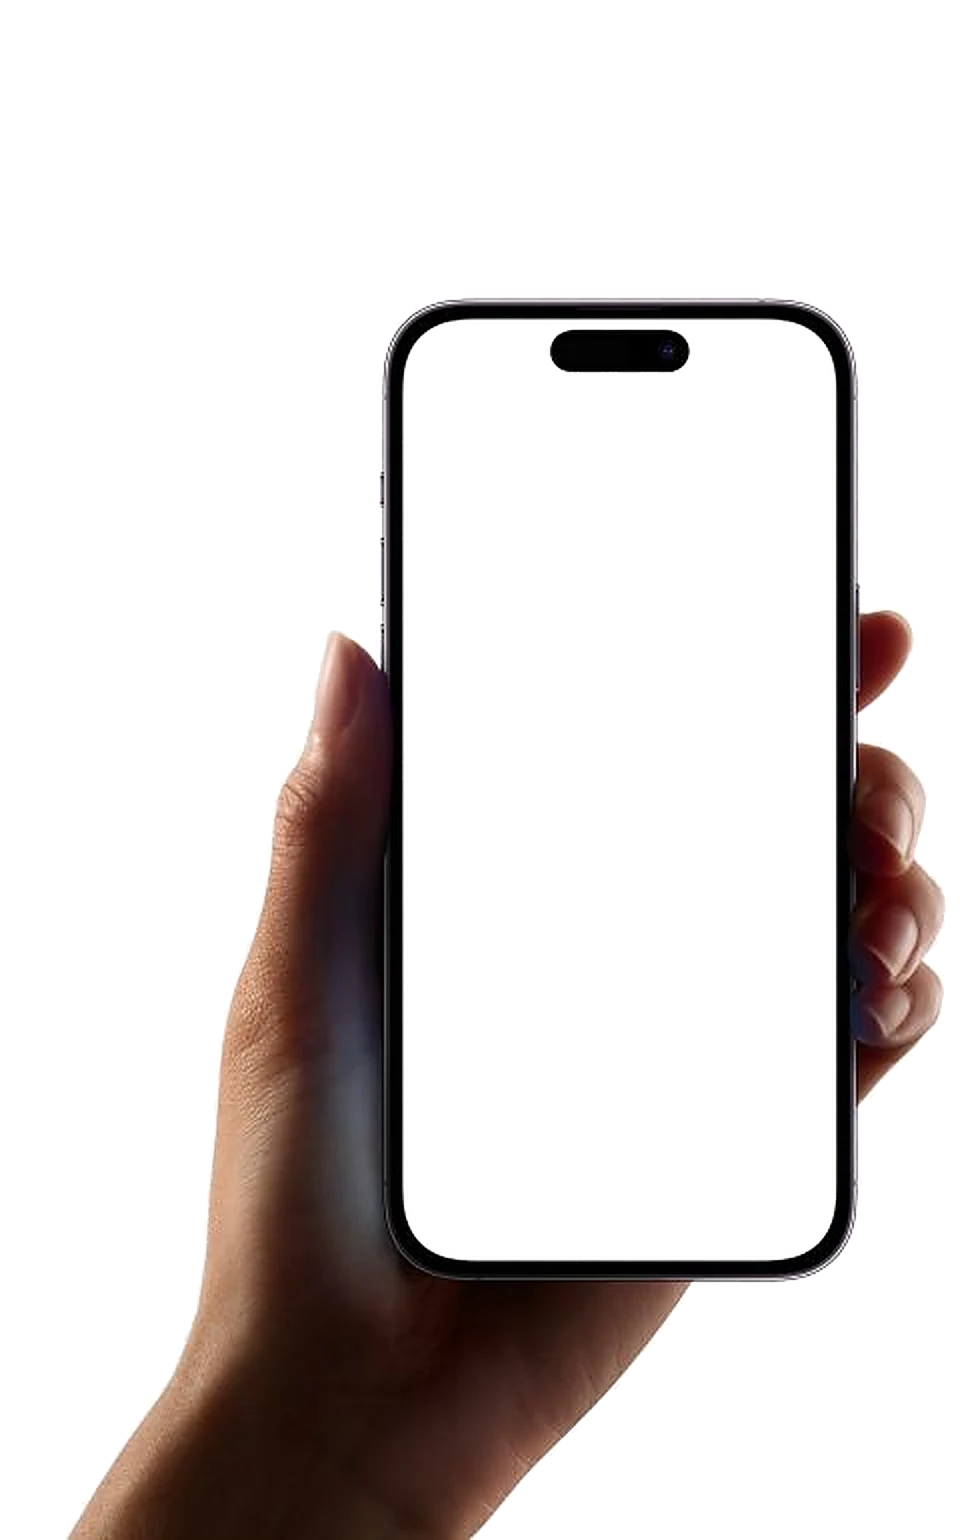
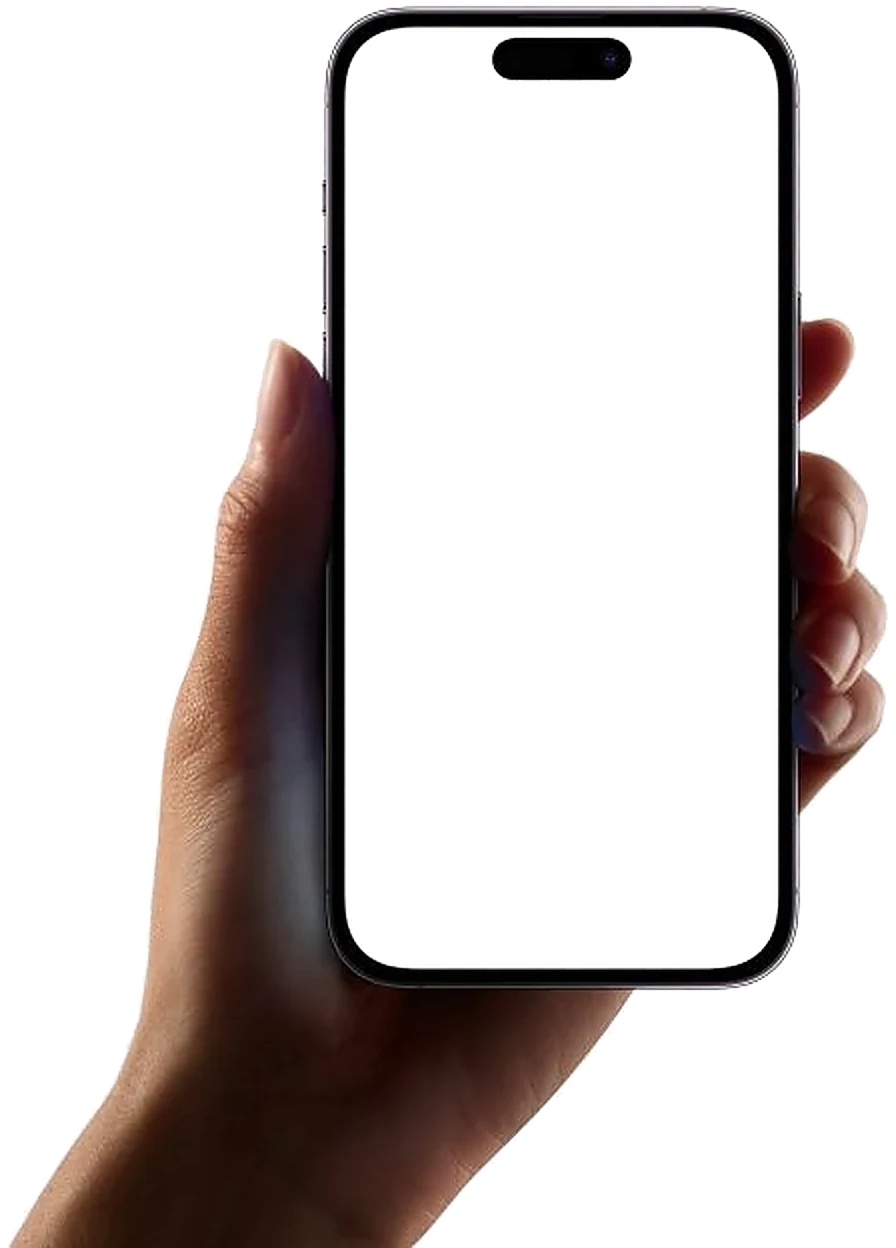
hero empty space fix

Changed region(s): [[0.0, 0.0, 1.0, 1.0]]

diff --git a/app/globals.css b/app/globals.css
@@ -369,7 +369,7 @@ textarea.field { resize: none; min-height: 104px; line-height: 1.5; }
 .statrownum { flex: 0 0 44px; text-align: right; font-size: 14px; font-weight: 700; }
 
 /* --- homepage: fluid hero --- */
-.hero { display: grid; grid-template-columns: minmax(0,1.15fr) 260px; gap: 30px; align-items: center; position: relative; overflow: visible; }
+.hero { display: grid; grid-template-columns: minmax(0,1.15fr) 337px; gap: 30px; align-items: center; position: relative; overflow: visible; }
 .heroart { display: contents; }
 .herotitle { font-size: clamp(30px, 7.4vw, 52px); line-height: 1.05; margin: 18px 0 0; letter-spacing: -0.035em; font-weight: 800; }
 .herosub { font-size: clamp(15.5px, 3.6vw, 18px); line-height: 1.6; color: rgba(27,13,68,.7); margin: 16px 0 24px; max-width: 500px; }
@@ -1726,48 +1726,53 @@ button, a, label, select, input[type=color] { touch-action: manipulation; }
    overlapping the case. Painting the screen last would put the page in front
    of the thumb.
 
-   The percentages are measured from the keyed file, not guessed, so the screen
-   lands exactly in the hole.
+   The file is cropped to its own content. The original carried about 18% of
+   empty height above the phone, which the grid then had to make room for: the
+   hero column grew, the text beside it centred against all that height, and
+   the section opened up a band of dead space above the headline. Cropping the
+   air out shortened the column by roughly 110px and closed the gap.
+
+   The percentages are measured from the cropped file, not guessed, so the
+   screen lands exactly in the hole.
 
    --handn is the only knob, and it is UNITLESS on purpose: the scale below
    divides by the screen's design width, and CSS cannot divide one length by
    another. Width gets its px by multiplying.
 
-   360 is a compromise, not an arbitrary number. The source photo is 480px of
-   real detail. Shown at 360 CSS px a 2x display asks for 720, so about two
-   thirds of what it wants — soft, but skin and shadow carry that far better
-   than text would, which is exactly why the screen is markup and not part of
-   the image. Bigger looks more impressive and softer: at 511px, the width that
-   would match the old drawn phone's screen, it drops to under half.
+   337 keeps the screen at the same 162px it was before the crop, so nothing
+   inside changed size. The source holds 480px of real detail, so at 337 CSS px
+   a 2x display gets about 71% of what it asks for — soft, but skin and shadow
+   carry that far better than text would, which is exactly why the screen is
+   markup and not part of the image.
 --------------------------------------------------------------------------- */
 .handmock {
-  --handn: 360;
+  --handn: 337;
   position: relative;
   width: calc(var(--handn) * 1px);
-  aspect-ratio: 480 / 770;   /* the photo's own ratio, so it never letterboxes */
+  aspect-ratio: 896 / 1248;   /* the cropped file's own ratio */
 }
 .handimg {
   position: absolute; inset: 0;
   width: 100%; height: 100%;
   display: block; pointer-events: none;
   /* the shadow belongs to the hand, not to a rectangle around it */
-  filter: drop-shadow(0 26px 34px rgba(27, 13, 68, .28));
+  filter: drop-shadow(0 22px 30px rgba(27, 13, 68, .26));
 }
 .handscreen {
   position: absolute;
-  left: 42.083%; top: 20.779%;
-  width: 45%; height: 61.039%;
+  left: 38.616%; top: 2.244%;
+  width: 48.214%; height: 75.321%;
   overflow: hidden;
-  border-radius: 7.4% / 3.4%;   /* the case corner, in the screen's own units */
+  border-radius: 7% / 3.4%;   /* the case corner, in the screen's own units */
 }
 /* The page is laid out at the screen's design width and then scaled, so the
    type keeps its proportions instead of reflowing at every breakpoint.
-   0.45 is the screen's share of the photo's width, from the box above. */
+   0.48214 is the screen's share of the photo's width, from the box above. */
 .handscreeninner {
   width: 216px;
-  transform: scale(calc(var(--handn) * 0.45 / 216));
+  transform: scale(calc(var(--handn) * 0.48214 / 216));
   transform-origin: top left;
 }
 
 @media (max-width: 900px) { .handmock { --handn: 300; } }
-@media (max-width: 420px) { .handmock { --handn: 250; } }
+@media (max-width: 420px) { .handmock { --handn: 262; } }
